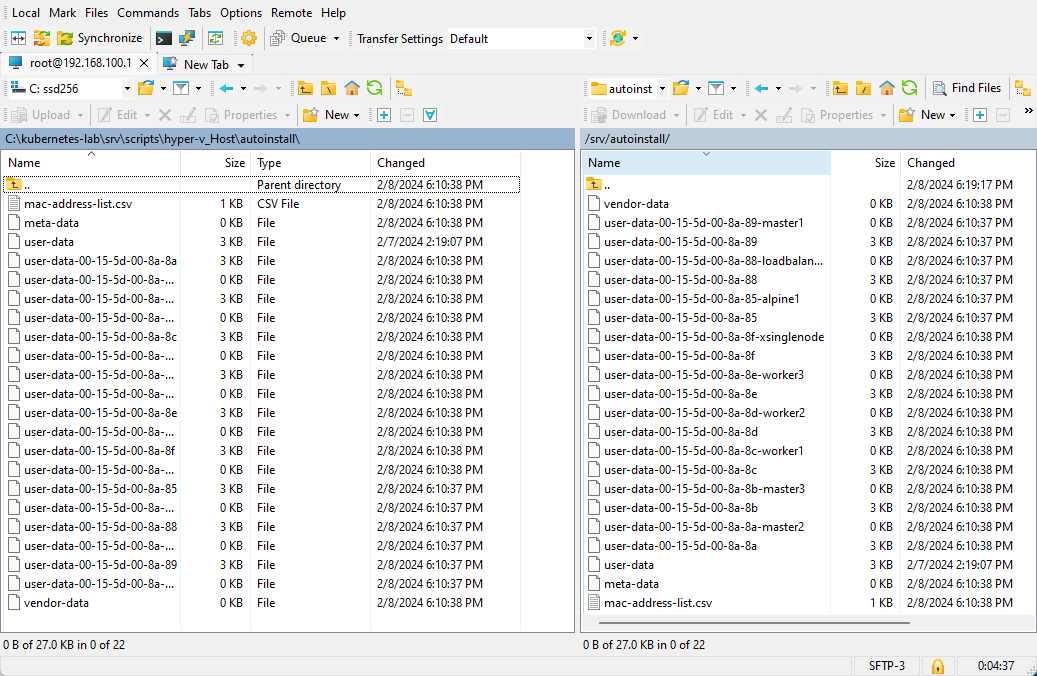
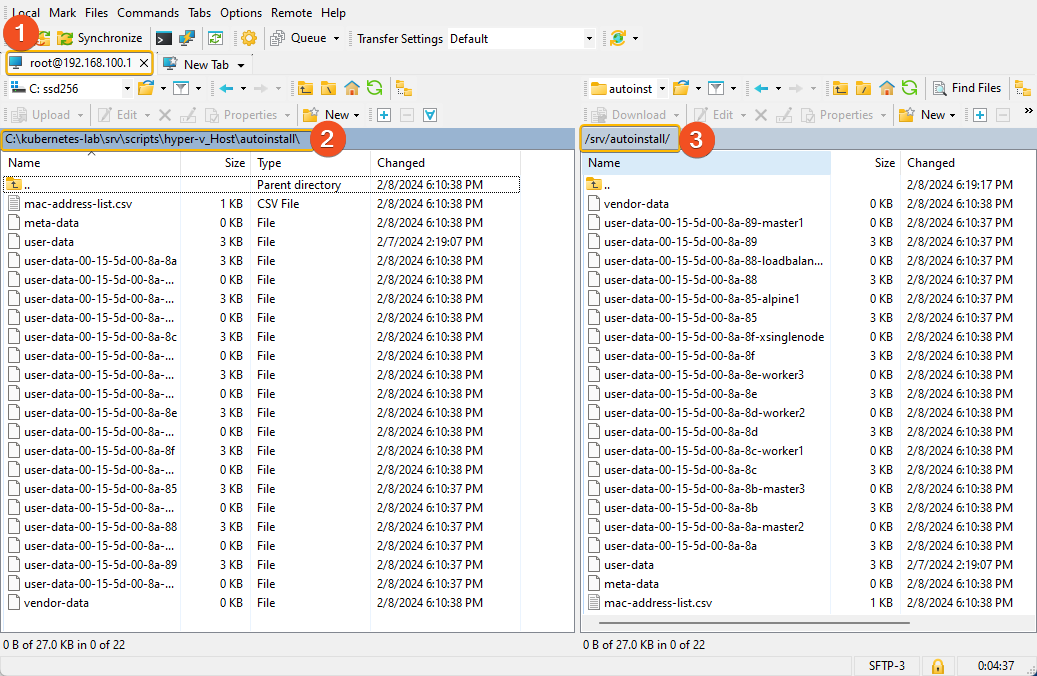
improved the clarity

Changed region(s): [[0.0, 0.1553, 0.3394, 0.2485], [0.0, 0.0, 0.1543, 0.1243], [0.5554, 0.1553, 0.7097, 0.2485]]

diff --git a/docs/kubernetes-lab-setup/100-alpine1/113-Install-Ubuntu.md b/docs/kubernetes-lab-setup/100-alpine1/113-Install-Ubuntu.md
@@ -14,7 +14,7 @@ We now have some manual tasks to create the `user-data-mac-address` file for eac
 
 For the following step, the Virtual Machines created must be started once to generate the mac-address.
 
-From PowerShell ISE  open `G:\kubernetes-lab\srv\scripts\hyper-v_Host\get-hyperv-start-stopVM.ps1`
+From PowerShell ISE ( **as Administrator**)  open `G:\kubernetes-lab\srv\scripts\hyper-v_Host\get-hyperv-start-stopVM.ps1`
 
 Click on the `Green Play` button, this will execute the script.
 
@@ -36,7 +36,7 @@ Click on the `Green Play` button, this will execute the script.
 
 The generated files are in the subfolder  `.\autoinstall\`
 
-![114-01-location-of-script](./../screenshots\114-01-location-of-script.png)
+![113-01-location-of-script](./../screenshots\113-01-location-of-script.png)
 
 
 
@@ -48,11 +48,17 @@ This is from the following code
 APPEND netboot=nfs boot=casper root=/dev/nfs nfsroot=192.168.100.1:/srv/isoubuntu autoinstall 
 ```
 
+### Step 3
+
 #### Copy autoinstall files to `alpine1`
 
 Using [WinSCP](https://winscp.net/eng/download.php) copy the files created to the folder  `/srv/autoinstall/` on the `alpine1` server. The duplicate file with the node name is workaround to show the hostname of the specific file. 
 
-![114-02-wsftp-cp-autoinstall](./../screenshots\113-02-wsftp-cp-autoinstall.png)
+1. WinSCP is connected to `alpine1` via IP `192.168.100.1`
+2. Ensure the path to the `user-data-*` files are correct.
+3. The destination path on `alpine1` is equally important.
+
+![113-02-wsftp-cp-autoinstall](./../screenshots\113-02-wsftp-cp-autoinstall.png)
 
 
 
@@ -62,9 +68,53 @@ Validate by browsing `http://192.168.100.1/`
 
 
 
-![114-03-list-autoinstall-in-browser](./../screenshots\114-03-list-autoinstall-in-browser.png)
+![113-03-list-autoinstall-in-browser](./../screenshots\113-03-list-autoinstall-in-browser.png)
 
-// To update Video of Script generation and the Ubuntu setup.
+### Step 4
+
+#### Ubuntu installation
+
+Ubuntu Installation on the Hyper-V Virtual machines can now begin.
+
+1. Connect to  Hyper-V Virtual Machine `loadbalancer`
+
+2. Start Hyper-V Virtual Machine `loadbalancer`
+
+3. If all configuration is correct, the PXE boot menu will be presented.
+    Use the arrow key to highlight the menu option `ubuntu-nfs-boot` and press enter. The Ubuntu Installation will begin. No input required.
+
+![113-06-Ubuntu-PXE-boot-menu](./../screenshots/113-06-Ubuntu-PXE-boot-menu.png)
+
+
+
+### Step 5
+
+#### Connect to `loadbalancer`
+
+The DNS lookup will only work from `alpine1` , if you connect from the Windows PC then you will need to use the IP address of `loadbalancer`
+
+Check connectivity From `alpine1` to the newly installed `Ubuntu`
+
+```
+ping loadbalancer
+```
+
+![113-07-connectivity](./../screenshots/113-07-connectivity.png)
+
+Connect/ssh  to `loadbalancer`
+
+1. Connect from `alpine1`
+2. type `ssh ubuntu@loadbalancer`
+3. Connected to `loadbalancer` as reflected in the IP address.
+4. The login prompt shows the user `ubuntu` logged on to `loadbalancer`
+
+![113-08-connectivity](./../screenshots/113-08-connectivity.png)
+
+
+
+Repeat steps for remaining Hyper-V Virtual Machines.
+
+
 
 
 

diff --git a/docs/kubernetes-lab-setup/100-alpine1/104-Validation.md b/docs/kubernetes-lab-setup/100-alpine1/104-Validation.md
@@ -59,12 +59,14 @@ Success is determined when the Virtual Machine is booted up correctly to the PXE
 
    The NFS  functionality is validated when you setup Ubuntu using the  option `ubuntu-nfs-boot (iso mounted on nfs 1GB of Memory)`
 
-
-
 6. tftp
 
    tftp is very difficult to troubleshoot. The best way is to ensure the configuration is correct. 
 
    When I had issues with tftp , reviewing the tftp related configuration ( i.e. tftp server running and paths correctly configured). If you used the standard configuration without changes you should not have any issues.
 
-7. 
+   If you are presented with the following menu, then tftp is working. 
+
+   When you press enter to select the option and the installation proceeds, then NFS is also working.
+
+![113-06-Ubuntu-PXE-boot-menu](./../screenshots/113-06-Ubuntu-PXE-boot-menu.png)

diff --git a/docs/kubernetes-lab-setup/100-alpine1/manual-steps/113-generate-user-data-multipleVM.md b/docs/kubernetes-lab-setup/100-alpine1/manual-steps/113-generate-user-data-multipleVM.md
@@ -34,7 +34,7 @@ Click on the `Green Play` button, this will execute the script.
 
 The generated files are in the subfolder  `.\autoinstall\`
 
-![114-01-location-of-script](./../../screenshots/114-01-location-of-script.png)
+![113-01-location-of-script](./../../screenshots/113-01-location-of-script.png)
 
 
 
@@ -64,7 +64,7 @@ Validate by browsing `http://192.168.100.1/`
 
 
 
-![114-03-list-autoinstall-in-browser](./../../screenshots\114-03-list-autoinstall-in-browser.png)
+![113-03-list-autoinstall-in-browser](./../../screenshots\113-03-list-autoinstall-in-browser.png)
 
 // To update Video of Script generation and the Ubuntu setup.
 
